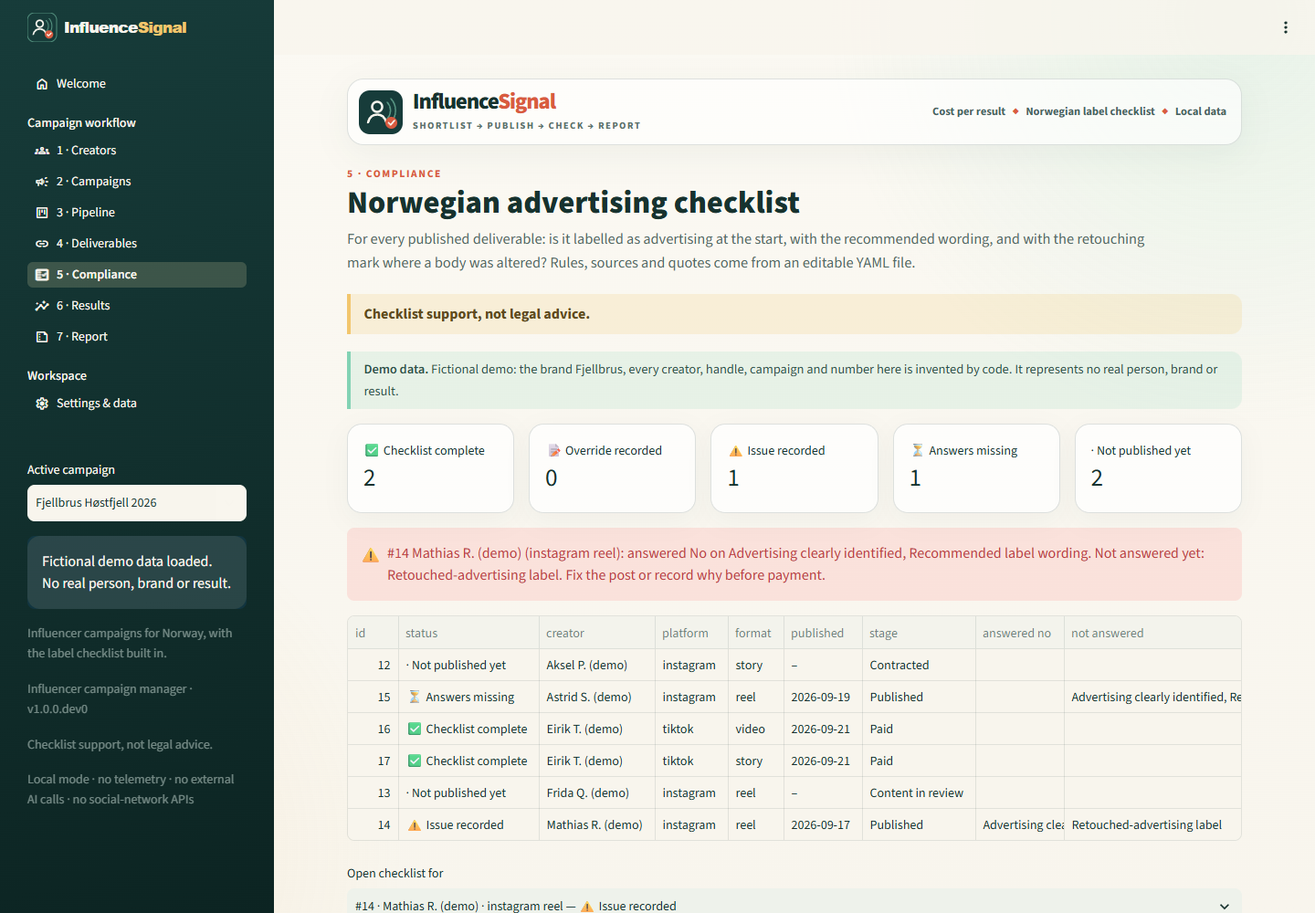
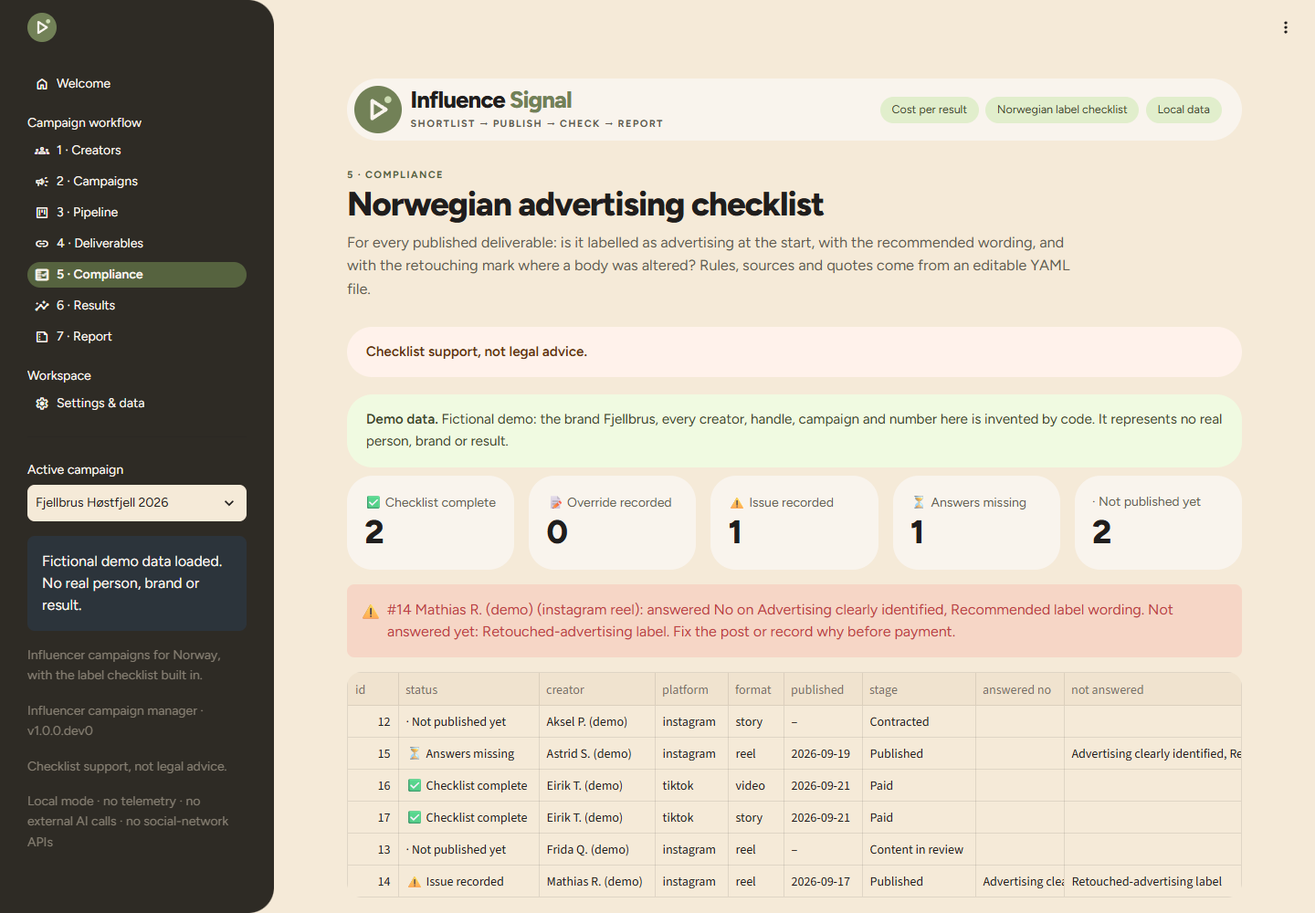
Move README and assets to the Signal template; add issue templates
README follows the Signal README template: banner PNG, five badges in the
Market colour, promise, intro, question, then Read this first, Scope, Try the
demo, Data contract, Methods (tracked links, checklist, metrics), Decision
statuses, Exports, Run locally, Privacy, Development (with architecture),
Where this fits in Signal, References (the official sources behind the rules),
Originality and license and the suite footer. Existing honesty statements,
limits, the name status and the checklist-not-legal-advice framing are kept.

Assets: adopt the synced banner, social preview and marks; delete the old
banner SVG. README screenshots are retaken with the new theme. Display name
"Influence Signal" in CITATION, PRIVACY, the agent briefs and a spelling note
in the name screen (no new clearance claimed). Adds bug, feature and config
issue templates modelled on Worth Signal's, and README/issue-template tests.

diff --git a/tests/test_brand.py b/tests/test_brand.py
@@ -76,3 +76,52 @@ def test_synced_theme_assets_and_config() -> None:
         assert (UI / "assets" / "marks" / f"influencesignal-mark{size}.{'svg' if not size else 'png'}").exists()
     assert (UI / "__init__.py").exists()
 
+
+def test_readme_matches_suite_information_architecture() -> None:
+    readme = (ROOT / "README.md").read_text(encoding="utf-8")
+    # Signal README template order (sections without content for this app are left out, never reordered).
+    sections = [
+        "## Read this first",
+        "## Scope",
+        "## Try the demo in three minutes",
+        "## Data contract",
+        "## Methods",
+        "## Decision statuses",
+        "## Exports",
+        "## Run locally",
+        "## Privacy",
+        "## Development",
+        "## Where this fits in Signal",
+        "## References",
+        "## Originality and license",
+    ]
+    positions = [readme.find(f"\n{heading}\n") for heading in sections]
+    assert all(position >= 0 for position in positions), dict(zip(sections, positions))
+    assert positions == sorted(positions)
+    assert readme.startswith('<p align="center">\n  <img src="assets/influencesignal-banner.png"')
+    assert "influencesignal-banner.svg" not in readme
+    assert "Signal-Market-728157" in readme  # family badge in the Market 600 colour
+    assert "github.com/UlrikErlingsen/influencer-campaigns/actions" in readme  # tests badge
+    assert "**Influence Signal**" in readme
+    assert '<img src="assets/influencesignal-mark-64.png"' in readme  # suite footer
+    assert "Creator" + " Signal" not in readme
+    assert "Checklist support, not legal advice." in readme
+    assert "not legal clearance or a trademark opinion" in readme
+    assert "represent no real person, brand or result" in readme
+    for path in ("assets/influencesignal-banner.png", "assets/influencesignal-mark-64.png",
+                 "assets/influencesignal-social.png", "assets/influencesignal-mark.svg"):
+        assert (ROOT / path).exists(), path
+    for path in ("assets/influencesignal-banner.svg", "assets/influencesignal-lockup-dark.svg"):
+        assert not (ROOT / path).exists(), path
+
+
+def test_issue_templates_name_the_product_and_protect_creator_data() -> None:
+    folder = ROOT / ".github" / "ISSUE_TEMPLATE"
+    bug = (folder / "bug_report.yml").read_text(encoding="utf-8")
+    idea = (folder / "feature_request.yml").read_text(encoding="utf-8")
+    config = (folder / "config.yml").read_text(encoding="utf-8")
+    assert "Influence Signal" in bug and "Influence Signal" in idea
+    assert "Never attach real creator data" in bug
+    assert "required: true" in bug
+    assert "blank_issues_enabled: false" in config
+    assert "influencer-campaigns/blob/main/SECURITY.md" in config

diff --git a/README.md b/README.md
@@ -1,21 +1,22 @@
 <p align="center">
-  <img src="assets/influencesignal-banner.svg" alt="InfluenceSignal — which creators delivered, and was every post labelled properly?" width="100%">
+  <img src="assets/influencesignal-banner.png" alt="Influence Signal: Which creators delivered, and was every post labelled properly?" width="100%">
 </p>
 
 <p align="center">
-  <img alt="Python 3.10+" src="https://img.shields.io/badge/Python-3.10%2B-173C3A?logo=python&logoColor=white">
-  <img alt="Streamlit" src="https://img.shields.io/badge/Streamlit-app-D95B40?logo=streamlit&logoColor=white">
-  <img alt="Local-first SQLite" src="https://img.shields.io/badge/Data-local%20SQLite-83D2B4">
-  <a href="LICENSE"><img alt="License: AGPL-3.0-or-later" src="https://img.shields.io/badge/License-AGPL--3.0--or--later-36534E"></a>
+  <a href="https://github.com/UlrikErlingsen/influencer-campaigns/actions"><img alt="Tests" src="https://github.com/UlrikErlingsen/influencer-campaigns/actions/workflows/tests.yml/badge.svg"></a>
+  <a href="https://github.com/UlrikErlingsen/signal-hub"><img alt="Signal · Market" src="https://img.shields.io/badge/Signal-Market-728157?labelColor=2e2b25"></a>
+  <img alt="Python 3.10+" src="https://img.shields.io/badge/Python-3.10%2B-2e2b25?logo=python&logoColor=f9f4ed">
+  <img alt="Streamlit" src="https://img.shields.io/badge/Streamlit-app-728157?logo=streamlit&logoColor=f9f4ed">
+  <a href="LICENSE"><img alt="License: AGPL-3.0-or-later" src="https://img.shields.io/badge/License-AGPL--3.0--or--later-645c50"></a>
 </p>
 
 <p align="center"><strong>Run Norwegian influencer campaigns in one local app — pipeline, codes, cost per result, and an advertising-label checklist on every post.</strong></p>
 
 > **Status:** v1 in development (`1.0.0.dev0`). Private build; not yet released.
 >
-> **Name status:** developed under the working name CreatorSignal and renamed to InfluenceSignal on 1 October 2026, after a basic screen found an active product using the exact name CreatorSignal. The same screen found no product, package or GitHub repository named InfluenceSignal. That is encouraging but is not legal clearance or a trademark opinion; see [the name screen](docs/name-screen.md).
+> **Name status:** developed under the working name CreatorSignal and renamed to Influence Signal (package `influencesignal`) on 1 October 2026, after a basic screen found an active product using the exact name CreatorSignal. The same screen found no product, package or GitHub repository named InfluenceSignal. That is encouraging but is not legal clearance or a trademark opinion; see [the name screen](docs/name-screen.md).
 
-**InfluenceSignal** is an open, local-first influencer campaign manager for the Norwegian market — a free alternative to paid tools such as Upfluence, Grin and Modash for small brands, agencies and student projects. It answers:
+**Influence Signal** helps small brands, agencies and student projects run influencer campaigns in Norway. It combines a creator roster, a campaign pipeline, deliverables with tracked links and discount codes, cost-per-result figures and a sourced Norwegian advertising-label checklist in one open, local-first app — a free alternative to paid tools such as Upfluence, Grin and Modash.
 
 > Which creators delivered for this campaign, at what cost per result — and was every post correctly labelled under Norwegian rules?
 
@@ -27,22 +28,12 @@ Everything runs on your own computer with open-source Python packages and saves 
 
 - **Checklist support, not legal advice.** The compliance checklist records what your team checked against Forbrukertilsynet's published guidance. It never says a post or campaign is "compliant", and it is no substitute for a legal assessment.
 - **Numbers are descriptive, not causal.** CPM, CPC, cost per redemption and ROAS describe what was reported against what was paid. Some buyers would have bought anyway; discount codes leak to coupon sites; views are defined differently by each platform. The app says so next to the numbers.
-- **Nothing is fetched.** Follower counts, engagement rates and results are what you or the creator enter. InfluenceSignal never scrapes profiles, never sends DMs and never calls a platform API.
+- **Nothing is fetched.** Follower counts, engagement rates and results are what you or the creator enter. Influence Signal never scrapes profiles, never sends DMs and never calls a platform API.
 - **You hold personal data.** Creator names, contacts and fees are personal data under GDPR, and you are the data controller. See [PRIVACY.md](PRIVACY.md).
 
-## Try the fictional demo in three minutes
+## Scope
 
-1. **Windows:** double-click `run_app.bat`. The first start creates a private Python environment, installs the packages and opens the app with the demo already loaded.
-2. Open **3 · Pipeline** with *Fjellbrus Høstfjell 2026* active. Ten fictional creators sit across the stages. Move *Mathias R. (demo)* to **Paid** — the gate refuses, because his published post has no advertising label.
-3. Open **5 · Compliance**. The warning names the failing rules. Open the checklist to see each rule in Norwegian and English with its source link and quote.
-4. Switch the sidebar to *Fjellbrus Vårløp 2026* and open **6 · Results**: cost per result by creator, with the limits of each number spelled out.
-5. Open **7 · Report** and download the XLSX workbook and the one-page HTML summary (print it to PDF from the browser).
-
-**The demo is fictional.** The brand Fjellbrus, the 25 creators (handles all start with `demo_`, e-mails use `example.com`), both campaigns and every number are generated by code ([`src/influencesignal/demo.py`](src/influencesignal/demo.py), fixed seed). They represent no real person, brand or result.
-
-<p align="center"><img src="assets/screenshots/compliance.png" alt="Compliance page with the missing-label warning on a fictional post" width="100%"></p>
-
-## What it does (v1)
+**Version 1.0 (in development) supports:**
 
 | Area | What you get |
 |---|---|
@@ -54,6 +45,45 @@ Everything runs on your own computer with open-source Python packages and saves 
 | **Results** | Reach, views, clicks, code redemptions and revenue by hand or CSV. CPM, CPC, cost per redemption and ROAS per creator and per campaign. |
 | **Report** | XLSX workbook (every table, checklist answers, rule sources) and a one-page HTML summary. |
 
+**It does not:** discover creators, scrape profiles, send outreach, handle payments or support multi-user accounts (by design in v1). To test whether influencer activity *caused* a lift, use a designed experiment with **[Experiment Signal](https://github.com/UlrikErlingsen/experiment-analysis)** rather than code redemptions.
+
+Further limits:
+
+- Results are self-reported. Platform analytics, screenshots and shop data disagree; record which source you used in the notes.
+- One stage per creator per campaign. Deliverables carry their own checklist; the Paid gate checks all of them together.
+- The restricted-category flag is a flag only. It links the source and records that someone reviewed the rules; it does not assess them.
+- The SQLite file has no access control. Protect it like any file with personal data.
+
+## Try the demo in three minutes
+
+1. **Windows:** double-click `run_app.bat` (**macOS:** `run_app.command`). The first start creates a private Python environment, installs the packages and opens the app with the demo already loaded.
+2. Open **3 · Pipeline** with *Fjellbrus Høstfjell 2026* active. Ten fictional creators sit across the stages. Move *Mathias R. (demo)* to **Paid** — the gate refuses, because his published post has no advertising label.
+3. Open **5 · Compliance**. The warning names the failing rules. Open the checklist to see each rule in Norwegian and English with its source link and quote.
+4. Switch the sidebar to *Fjellbrus Vårløp 2026* and open **6 · Results**: cost per result by creator, with the limits of each number spelled out.
+5. Open **7 · Report** and download the XLSX workbook and the one-page HTML summary (print it to PDF from the browser).
+
+**The demo is fictional.** The brand Fjellbrus, the 25 creators (handles all start with `demo_`, e-mails use `example.com`), both campaigns and every number are generated by code ([`src/influencesignal/demo.py`](src/influencesignal/demo.py), fixed seed). They represent no real person, brand or result.
+
+<p align="center"><img src="assets/screenshots/compliance.png" alt="Compliance page with the missing-label warning on a fictional post" width="100%"></p>
+
+## Data contract
+
+**Workspace.** One SQLite file, by default `./data/influencesignal.db` (git-ignored). Choose another folder on **Settings & data** or with `INFLUENCESIGNAL_DATA_DIR`. A brand-new default workspace starts with the demo; set `INFLUENCESIGNAL_NO_DEMO=1` to start empty. Unlike the analytics Signal apps, Influence Signal is a workflow tool, so it saves state.
+
+**Creator CSV/XLSX.** Columns: `name` (required), `instagram`, `tiktok`, `youtube`, `snapchat`, `followers`, `engagement_rate` (percent, 0–100), `niche_tags` (comma separated), `region`, `contact_email`, `contact_phone`, `rate_card`, `notes`. Comma or semicolon separators and decimal commas (`4,2`) are accepted; a leading `@` on handles is removed. `region` must be one of Norway's 15 counties from 2024. Rows are rejected with their row number for missing names, impossible handles, non-numeric or negative counts, out-of-range engagement, unknown counties, malformed e-mail addresses, and duplicate names or handles. Rows whose name already exists update that creator.
+
+| name | instagram | followers | engagement_rate | region |
+|---|---|---|---|---|
+| Kari T. (demo) | demo_kari_trener | 18500 | 4,2 | Vestland |
+
+**Results CSV/XLSX.** Download the template from **6 · Results**: `deliverable_id` plus any of `reach`, `views`, `clicks`, `redemptions`, `revenue_nok`. Blank cells are left unchanged.
+
+Uploads are limited to 20 MB, 50,000 rows and 100 columns.
+
+## Methods
+
+The workflow runs in order: roster → campaign → pipeline → deliverables with tracked links → published → checklist → Paid gate → results → report.
+
 ### Tracked links
 
 Every link uses one scheme, so campaigns stay comparable in your analytics:
@@ -64,7 +94,7 @@ Every link uses one scheme, so campaigns stay comparable in your analytics:
 
 Existing query parameters on the landing page are kept; old `utm_*` parameters are replaced. Norwegian letters are transliterated (æ → ae, ø → o, å → a).
 
-## The Norwegian checklist
+### The Norwegian checklist
 
 The rules live in [`src/influencesignal/rules/no.yaml`](src/influencesignal/rules/no.yaml) and can be edited without code changes. Each rule has an id, a Norwegian and English label and question, when it applies, the check type, the legal basis and its sources, each with an official URL and a quoted passage fetched on 1 October 2026.
 
@@ -76,39 +106,43 @@ The rules live in [`src/influencesignal/rules/no.yaml`](src/influencesignal/rule
 | Retouched-advertising mark when body shape, size or skin is altered (filters included) | deliverables that show a person | [Forskrift om merking av retusjert reklame](https://lovdata.no/dokument/SF/forskrift/2022-06-17-1114) and [Forbrukertilsynet's guide](https://www.forbrukertilsynet.no/vi-jobber-med/merking-av-retusjert-reklame/forbrukertilsynets-veiledning-om-merking-av-retusjert-reklame); markedsføringsloven § 2, in force 1 July 2022 |
 | Restricted category flag: alcohol, gambling, tobacco/nicotine, targets children | campaigns in those categories | alkoholloven § 9-2, tobakksskadeloven § 22, pengespilloven § 6, markedsføringsloven §§ 19–21 |
 
-Note on legal references: older material cites markedsføringsloven § 3 for advertising labelling. Since 1 October 2023, § 3 concerns documentation of claims, and Forbrukertilsynet's guide cites § 8 (first paragraph). InfluenceSignal follows the guide. One detail the official texts did not settle (whether the tobacco ban covers tobacco-free nicotine products) is marked `TODO(verify)` in the YAML — see [docs/compliance-rules.md](docs/compliance-rules.md).
+Note on legal references: older material cites markedsføringsloven § 3 for advertising labelling. Since 1 October 2023, § 3 concerns documentation of claims, and Forbrukertilsynet's guide cites § 8 (first paragraph). Influence Signal follows the guide. One detail the official texts did not settle (whether the tobacco ban covers tobacco-free nicotine products) is marked `TODO(verify)` in the YAML — see [docs/compliance-rules.md](docs/compliance-rules.md).
 
-## Data contract
+### Metrics
 
-**Workspace.** One SQLite file, by default `./data/influencesignal.db` (git-ignored). Choose another folder on **Settings & data** or with `INFLUENCESIGNAL_DATA_DIR`. A brand-new default workspace starts with the demo; set `INFLUENCESIGNAL_NO_DEMO=1` to start empty.
+CPM = fee ÷ views × 1,000. CPC = fee ÷ clicks. Cost per redemption = fee ÷ redemptions. ROAS = code-attributed revenue ÷ fee. Each metric counts only the fees of deliverables that reported its denominator, so a missing number never makes the rest look cheaper. A zero or missing denominator gives "–", not infinity. The results page defaults the creator comparison to the campaign goal (awareness → CPM, traffic → CPC, sales → cost per redemption).
 
-**Creator CSV/XLSX.** Columns: `name` (required), `instagram`, `tiktok`, `youtube`, `snapchat`, `followers`, `engagement_rate` (percent, 0–100), `niche_tags` (comma separated), `region`, `contact_email`, `contact_phone`, `rate_card`, `notes`. Comma or semicolon separators and decimal commas (`4,2`) are accepted; a leading `@` on handles is removed. `region` must be one of Norway's 15 counties from 2024. Rows are rejected with their row number for missing names, impossible handles, non-numeric or negative counts, out-of-range engagement, unknown counties, malformed e-mail addresses, and duplicate names or handles. Rows whose name already exists update that creator.
+## Decision statuses
 
-**Results CSV/XLSX.** Download the template from **6 · Results**: `deliverable_id` plus any of `reach`, `views`, `clicks`, `redemptions`, `revenue_nok`. Blank cells are left unchanged.
+Each deliverable's checklist has one status; the Paid gate reads them together.
 
-**Metrics.** CPM = fee ÷ views × 1,000. CPC = fee ÷ clicks. Cost per redemption = fee ÷ redemptions. ROAS = code-attributed revenue ÷ fee. Each metric counts only the fees of deliverables that reported its denominator, so a missing number never makes the rest look cheaper. A zero or missing denominator gives "–", not infinity.
+- **CHECKLIST COMPLETE**: the deliverable is published and every applicable rule is answered Yes (or not applicable where the rule allows it).
+- **OVERRIDE RECORDED**: open items remain, but someone wrote an override reason of at least 15 characters; the reason is written into the report.
+- **ISSUE RECORDED**: at least one applicable rule is answered No. Blocks Paid unless an override is recorded.
+- **ANSWERS MISSING**: the deliverable is published but at least one applicable rule is unanswered. Blocks Paid unless an override is recorded.
+- **NOT PUBLISHED YET**: the checklist opens once the deliverable is marked published. Blocks Paid unless an override is recorded.
 
-Exports (CSV and XLSX) are sanitized against spreadsheet formula injection. Uploads are limited to 20 MB, 50,000 rows and 100 columns.
+A creator moves to *Paid* or *Reported* only when every deliverable is complete or carries an override. The gate is enforced in the storage layer, not only in the UI, and the compliance page warns when a checklist is reopened after payment. None of these statuses means a post is lawful.
 
-## Limits
+## Exports
 
-- No discovery, scraping, outreach, payments or multi-user accounts — by design in v1.
-- Results are self-reported. Platform analytics, screenshots and shop data disagree; record which source you used in the notes.
-- One stage per creator per campaign. Deliverables carry their own checklist; the Paid gate checks all of them together.
-- The restricted-category flag is a flag only. It links the source and records that someone reviewed the rules; it does not assess them.
-- The SQLite file has no access control. Protect it like any file with personal data.
+The XLSX workbook and the one-page HTML summary (print it to PDF from the browser) include:
+
+- the campaign, brand, goal, period, budget, generation date and software version (and the fictional-demo notice when it applies);
+- creators, deliverables, tracked links, discount codes, fees and results;
+- cost per result per creator and for the campaign, with the plain-language limits of each number;
+- every checklist answer and status, override reasons, open items and the restricted-category flag;
+- the rules with their legal basis, source URL and quoted passage, the date the rules were fetched, and the "Checklist support, not legal advice." disclaimer.
+
+CSV and XLSX exports are sanitized against spreadsheet formula injection, and the HTML report escapes all user-entered text.
 
 ## Run locally
 
-You need Python 3.10 or newer.
+You need Python 3.10 or newer and a local copy of this folder.
 
-**Windows:** double-click `run_app.bat`. It opens `http://127.0.0.1:8590`.
+**macOS:** double-click `run_app.command`. **Windows:** double-click `run_app.bat`.
 
-**macOS:** double-click `run_app.command`. It prefers port 8590 and falls back to a free port; if the app is already running it just opens it.
-
-The first launch creates a private `.venv` and downloads the open-source packages; later launches reuse it. Set `INFLUENCESIGNAL_PORT` to choose a port (and on macOS `INFLUENCESIGNAL_NO_BROWSER=1` to skip opening the browser).
-
-Or from a terminal:
+The first launch creates a private `.venv` and downloads open-source dependencies. Later launches reuse it. Or use a terminal:
 
 ```bash
 python -m venv .venv
@@ -117,7 +151,7 @@ python -m pip install -r requirements.txt
 python -m streamlit run app.py --server.port=8590
 ```
 
-Set `INFLUENCESIGNAL_DEBUG=1` to show technical details for unexpected errors, and `INFLUENCESIGNAL_RULES=<path>` to load a different rules YAML.
+Influence Signal prefers local port 8590; on macOS it falls back to a free port and, if the app is already running, just opens it. The launchers accept `INFLUENCESIGNAL_PORT` (and on macOS `INFLUENCESIGNAL_NO_BROWSER=1` to skip opening the browser). Set `INFLUENCESIGNAL_DEBUG=1` to show technical details for unexpected errors, and `INFLUENCESIGNAL_RULES=<path>` to load a different rules YAML.
 
 ### Docker
 
@@ -126,17 +160,13 @@ docker build -t influencesignal .
 docker run --rm -p 8590:8590 -v influencesignal-data:/data influencesignal
 ```
 
-The container runs as a non-root user, stores the database in the `/data` volume and includes a health check. It has no authentication — do not expose it beyond your own machine without adding access control (see [SECURITY.md](SECURITY.md)).
+Then open http://127.0.0.1:8590. The container runs as a non-root user, stores the database in the `/data` volume and includes a health check. It has no authentication — do not expose it beyond your own machine without adding access control (see [SECURITY.md](SECURITY.md)).
 
-## Architecture
+## Privacy
 
-- `src/influencesignal/` — all logic, data models and storage, pip-installable, **no Streamlit imports**. Public API in [`__init__.py`](src/influencesignal/__init__.py).
-- `src/influencesignal/storage.py` — the only module that touches SQLite, so the backend can be swapped.
-- `pages/` — one module per page, each exposing `render()`; `pages/ui.py` holds the shared shell (theme, masthead, workspace, display helpers). Pages only call package functions, so a future Signal Hub can import them.
-- `app.py` — entry point: wires the pages into `st.navigation`, renders the sidebar and runs the selected page. `?page=<slug>` opens a page directly (e.g. `/?page=compliance&campaign=fjellbrus-hostfjell-2026`); each page also has its own path such as `/compliance`.
-- `tests/test_architecture.py` fails if Streamlit is imported outside `app.py` and `pages/`, if SQLite leaks outside `storage.py`, or if a page module lacks `render()`.
+Creator names, contacts, fees and notes are processed and stored only in the SQLite file on the computer that runs the app; you are the data controller for them. Whoever runs Influence Signal on a server is responsible for that deployment's access control, logs, backups and retention. See [PRIVACY.md](PRIVACY.md).
 
-## Development checks
+## Development
 
 ```bash
 python -m pip install -e ".[test]"
@@ -145,14 +175,73 @@ python -m ruff check .
 python -m build
 ```
 
-The suite covers metric calculations, the UTM builder, rule loading and validation, the "cannot mark Paid without a checklist" gate, CSV import validation, the deterministic demo, report exports, every Streamlit page, the architecture rules, and an end-to-end run through the UI from an empty workspace (campaign → creator → shortlist → deliverable → publish → checklist → Paid → results → report). README screenshots are made with [`scripts/take_screenshots.py`](scripts/take_screenshots.py).
+The suite covers metric calculations, the UTM builder, rule loading and validation, the "cannot mark Paid without a checklist" gate, CSV import validation, the deterministic demo, report exports, every Streamlit page, the Signal brand shell, the architecture rules, and an end-to-end run through the UI from an empty workspace (campaign → creator → shortlist → deliverable → publish → checklist → Paid → results → report). README screenshots are made with [`scripts/take_screenshots.py`](scripts/take_screenshots.py).
 
-## Relationship to the Signal suite
+**Architecture.**
 
-InfluenceSignal is part of the [Signal suite](https://ulrikerlingsen.com/): local-first, explainable marketing tools with visible assumptions. Unlike the analytics apps such as **TrackSignal**, it is a workflow tool, so it saves state. To test whether influencer activity *caused* a lift, use a designed experiment (**ExperimentSignal**) rather than code redemptions.
+- `src/influencesignal/` — all logic, data models and storage, pip-installable, **no Streamlit imports** except in `src/influencesignal/ui/`, which holds the shared Signal theme synced from Signal Hub (`signal_theme.py` and the app marks; edit them in Signal Hub, not here). Public API in [`__init__.py`](src/influencesignal/__init__.py).
+- `src/influencesignal/storage.py` — the only module that touches SQLite, so the backend can be swapped.
+- `pages/` — one module per page, each exposing `render()`; `pages/ui.py` holds the shared shell (workspace, notes, pipeline cards, display helpers) on top of the Signal theme. Pages only call package functions, so a future Signal Hub can import them.
+- `app.py` — entry point: page config and theme, wires the pages into `st.navigation`, renders the sidebar, masthead and footer, and runs the selected page. `?page=<slug>` opens a page directly (e.g. `/?page=compliance&campaign=fjellbrus-hostfjell-2026`); each page also has its own path such as `/compliance`.
+- `tests/test_architecture.py` fails if Streamlit is imported outside `app.py`, `pages/` and `src/influencesignal/ui/`, if SQLite leaks outside `storage.py`, or if a page module lacks `render()`.
 
-## License
+## Where this fits in Signal
 
-Free under **AGPL-3.0-or-later**. See [LICENSE](LICENSE). Contributing: [CONTRIBUTING.md](CONTRIBUTING.md). Security: [SECURITY.md](SECURITY.md). Privacy: [PRIVACY.md](PRIVACY.md). Changes: [CHANGELOG.md](CHANGELOG.md).
+Influence Signal is the Market family's campaign workflow tool: it follows planning in [Season Signal](https://github.com/UlrikErlingsen/marketing-calendar) and listening in [Listen Signal](https://github.com/UlrikErlingsen/media-listening), and hands causal questions to [Experiment Signal](https://github.com/UlrikErlingsen/experiment-analysis).
+
+| App | Asks |
+|---|---|
+| [Track Signal](https://github.com/UlrikErlingsen/brand-tracking) | Is the brand moving, or is the tracker just noisy? |
+| [Position Signal](https://github.com/UlrikErlingsen/brand-positioning) | Where do brands sit relative to competitors? |
+| [Prospect Signal](https://github.com/UlrikErlingsen/b2b-prospecting) | Which Norwegian companies fit the ideal customer? |
+| [Listen Signal](https://github.com/UlrikErlingsen/media-listening) | What are Norwegian media and social channels saying? |
+| [Influence Signal](https://github.com/UlrikErlingsen/influencer-campaigns) | Which creators delivered, and was every post labelled? |
+| [Season Signal](https://github.com/UlrikErlingsen/marketing-calendar) | What does the Norwegian marketing year look like, worked backwards? |
+| [Adopt Signal](https://github.com/UlrikErlingsen/adoption-forecasting) | When will a new product be adopted? |
+| [Worth Signal](https://github.com/UlrikErlingsen/customer-value-analytics) | What are customers and relationships worth? |
+| [Segment Signal](https://github.com/UlrikErlingsen/customer-segmentation) | Do customers form stable, useful groups? |
+| [Trace Signal](https://github.com/UlrikErlingsen/journey-path-analysis) | How do logged customer journeys actually unfold? |
+| [Recommend Signal](https://github.com/UlrikErlingsen/recommender-evaluation) | Which recommendation policy should be tested live? |
+| [Choice Signal](https://github.com/UlrikErlingsen/conjoint-analysis) | How do product attributes drive choice? |
+| [Driver Signal](https://github.com/UlrikErlingsen/survey-driver-analysis) | Which measured experiences move with satisfaction? |
+| [Measure Signal](https://github.com/UlrikErlingsen/measurement-validation) | Does a multi-item score have a defensible structure? |
+| [Text Signal](https://github.com/UlrikErlingsen/open-text-analysis) | What recurring patterns appear in open-ended responses? |
+| [Tag Signal](https://github.com/UlrikErlingsen/pricing-analysis) | What price range is supported, and how does profit move? |
+| [Experiment Signal](https://github.com/UlrikErlingsen/experiment-analysis) | Did the treatment cause a practically meaningful change? |
+| [Gate Signal](https://github.com/UlrikErlingsen/launch-decision-gate) | Does a concept deserve the next investment? |
+| [Alloc Signal](https://github.com/UlrikErlingsen/marketing-mix-allocation) | Where should the next marketing budget go? |
+
+The maintained public suite is listed at [ulrikerlingsen.com](https://ulrikerlingsen.com) and in [Signal Hub](https://github.com/UlrikErlingsen/signal-hub).
+
+## References
+
+Official sources quoted in the rules (fetched 1 October 2026; dates are the sources' own "last updated" where shown):
+
+- Forbrukertilsynet. (2026, 18 May). *Veileder for merking av reklame i sosiale medier*. https://www.forbrukertilsynet.no/lov-og-rett/veiledninger-og-retningslinjer/someveiledning
+- Forbrukertilsynet. (2025, 11 April). *Merking av retusjert reklame*. https://www.forbrukertilsynet.no/vi-jobber-med/merking-av-retusjert-reklame
+- Forbrukertilsynet. (2026, 18 August). *Forbrukertilsynets veiledning om merking av retusjert reklame*. https://www.forbrukertilsynet.no/vi-jobber-med/merking-av-retusjert-reklame/forbrukertilsynets-veiledning-om-merking-av-retusjert-reklame
+- Forbrukertilsynet. (2025, 29 September). *Ofte stilte spørsmål om retusjert reklame*. https://www.forbrukertilsynet.no/vi-jobber-med/merking-av-retusjert-reklame/ofte-stilte-sporsmal-om-retusjert-reklame
+- Forbrukertilsynet. *Barn kan se og høre reklamen din*. https://www.forbrukertilsynet.no/vi-jobber-med/barn-og-unge/barn-og-reklame/barn-kan-se-og-hore-reklamen-din
+- Forskrift om merking av retusjert reklame (FOR-2022-06-17-1114). https://lovdata.no/dokument/SF/forskrift/2022-06-17-1114
+- Lov om kontroll med markedsføring og avtalevilkår mv. (markedsføringsloven), LOV-2009-01-09-2, §§ 2, 8 and 19–21. https://lovdata.no/dokument/NL/lov/2009-01-09-2
+- Alkoholloven, LOV-1989-06-02-27, § 9-2. https://lovdata.no/dokument/NL/lov/1989-06-02-27/§9-2
+- Tobakksskadeloven, LOV-1973-03-09-14, § 22. https://lovdata.no/dokument/NL/lov/1973-03-09-14/§22
+- Helsedirektoratet. (2026, 12 May). *Forbud mot reklame (tobakksskadeloven)*. https://www.helsedirektoratet.no/veiledere/tobakksskadeloven/reklameforbud
+- Pengespilloven, LOV-2022-03-18-12, § 6. https://lovdata.no/dokument/NL/lov/2022-03-18-12/§6
+
+See [docs/compliance-rules.md](docs/compliance-rules.md) for how each source maps to a rule and what is still open.
+
+## Originality and license
+
+Influence Signal is an independent implementation based on public Norwegian legal sources and official guidance, standard marketing cost-per-result definitions and original fictional examples. It does not reproduce paid tools' interfaces or content, lecture slides, course cases or other institution-specific material. Rule texts quote short passages from the official sources listed above, with links and fetch dates; see [the compliance-rule notes](docs/compliance-rules.md).
+
+The software and documentation are free under AGPL-3.0-or-later. See [LICENSE](LICENSE). Contributing: [CONTRIBUTING.md](CONTRIBUTING.md). Security: [SECURITY.md](SECURITY.md). Changes: [CHANGELOG.md](CHANGELOG.md).
 
 This application was developed with AI coding assistance and checked with automated tests and visual inspection. Rule texts quote official sources fetched on the date shown; verify them before relying on them. No warranty is provided.
+
+---
+
+<p>
+  <img src="assets/influencesignal-mark-64.png" width="20" height="20" alt="" align="absmiddle">
+  <strong>Influence Signal</strong> is part of <a href="https://github.com/UlrikErlingsen/signal-hub"><strong>Signal</strong></a>, open marketing-evidence tools by <a href="https://ulrikerlingsen.com">Ulrik Erlingsen</a>.
+</p>

diff --git a/PRIVACY.md b/PRIVACY.md
@@ -1,10 +1,10 @@
 # Privacy
 
-InfluenceSignal does not implement telemetry, advertising, user accounts, tracking pixels, external AI calls, social-network API calls or any outbound data upload. Everything you enter is stored in one SQLite file on the computer that runs the app (by default `data/influencesignal.db`, which is excluded from git).
+Influence Signal does not implement telemetry, advertising, user accounts, tracking pixels, external AI calls, social-network API calls or any outbound data upload. Everything you enter is stored in one SQLite file on the computer that runs the app (by default `data/influencesignal.db`, which is excluded from git).
 
 ## You are the data controller
 
-Creator names, handles, e-mail addresses, phone numbers, fees and notes are personal data under the GDPR (personopplysningsloven). When you store them in InfluenceSignal, **you — or the organisation you work for — are the data controller**. That means you decide and are responsible for:
+Creator names, handles, e-mail addresses, phone numbers, fees and notes are personal data under the GDPR (personopplysningsloven). When you store them in Influence Signal, **you — or the organisation you work for — are the data controller**. That means you decide and are responsible for:
 
 - the lawful basis for keeping each creator's data (for example a contract, or a legitimate interest you have assessed);
 - telling creators what you store and why, and answering access, correction and deletion requests;
@@ -15,7 +15,7 @@ The project maintainers never receive your data and are not a processor for it.
 
 ## Deployments
 
-If someone runs InfluenceSignal on a server, that operator controls infrastructure logs, retention, authentication, backups and network access and must document those practices separately. Do not enter creator data into a deployment you do not control.
+If someone runs Influence Signal on a server, that operator controls infrastructure logs, retention, authentication, backups and network access and must document those practices separately. Do not enter creator data into a deployment you do not control.
 
 ## Demo data
 

diff --git a/docs/name-screen.md b/docs/name-screen.md
@@ -27,6 +27,8 @@ Findings from the screen:
 
 On 1 October 2026 Ulrik chose **InfluenceSignal**, and the project was renamed the same day (package `influencesignal`, environment variables `INFLUENCESIGNAL_*`, database file `influencesignal.db`). The repository name `influencer-campaigns` is unchanged. The findings above about CreatorSignal are kept as the record of why the name changed.
 
+In user-facing text the name is written **Influence Signal**, with a space, like the other Signal apps (Signal brand refresh, 1 October 2026); technical identifiers keep the one-word form `influencesignal`. The screen above searched both spellings (`"InfluenceSignal" OR "Influence Signal"`). This is a spelling convention, not a new screen or clearance.
+
 The formal checks under *Recommendation* below still apply to InfluenceSignal before commercial use.
 
 ## Practical assessment (CreatorSignal)

diff --git a/AGENTS.md b/AGENTS.md
@@ -1,6 +1,6 @@
-# AGENTS.md — InfluenceSignal (repo: influencer-campaigns)
+# AGENTS.md — Influence Signal (repo: influencer-campaigns)
 
-You are building **InfluenceSignal**, a new product in Ulrik Erlingsen's **Signal** suite
+You are building **Influence Signal** (package `influencesignal`), a new product in Ulrik Erlingsen's **Signal** suite
 (open-source, local-first marketing tools; see sibling repos such as `brand-tracking`
 = TrackSignal for house style). This repo starts empty except for this file, a README stub,
 LICENSE and .gitignore. Build v1 from this brief.

diff --git a/CLAUDE.md b/CLAUDE.md
@@ -1,6 +1,6 @@
-# CLAUDE.md — InfluenceSignal (repo: influencer-campaigns)
+# CLAUDE.md — Influence Signal (repo: influencer-campaigns)
 
-You are building **InfluenceSignal**, a new product in Ulrik Erlingsen's **Signal** suite
+You are building **Influence Signal** (package `influencesignal`), a new product in Ulrik Erlingsen's **Signal** suite
 (open-source, local-first marketing tools; see sibling repos such as `brand-tracking`
 = TrackSignal for house style). This repo starts empty except for this file, a README stub,
 LICENSE and .gitignore. Build v1 from this brief.
